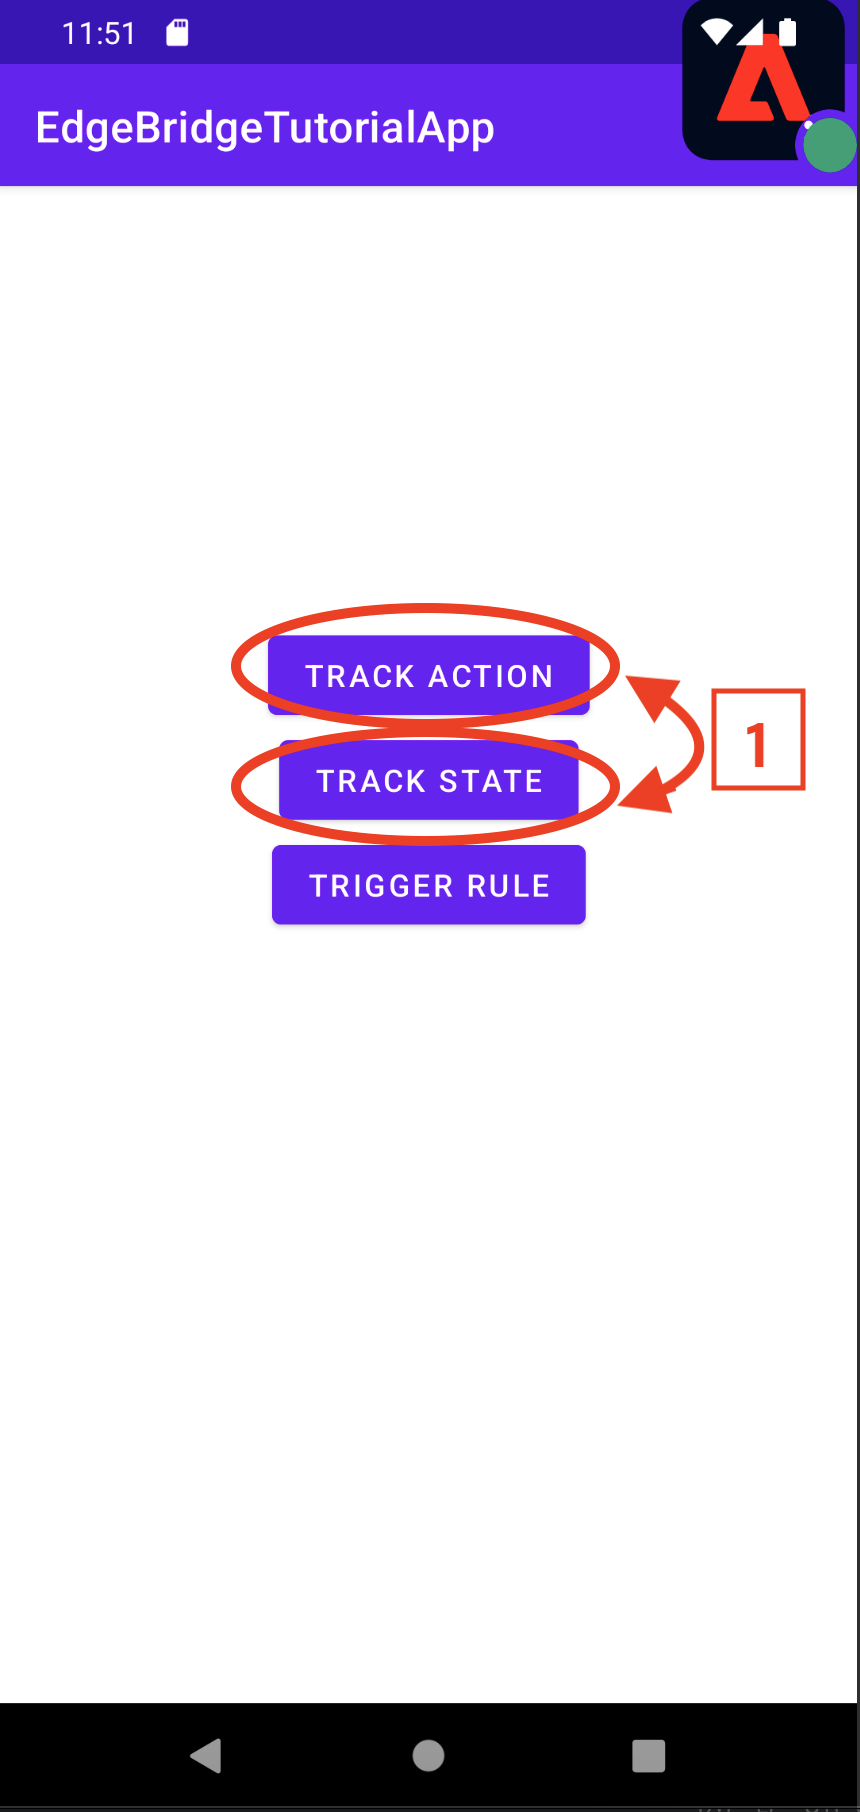
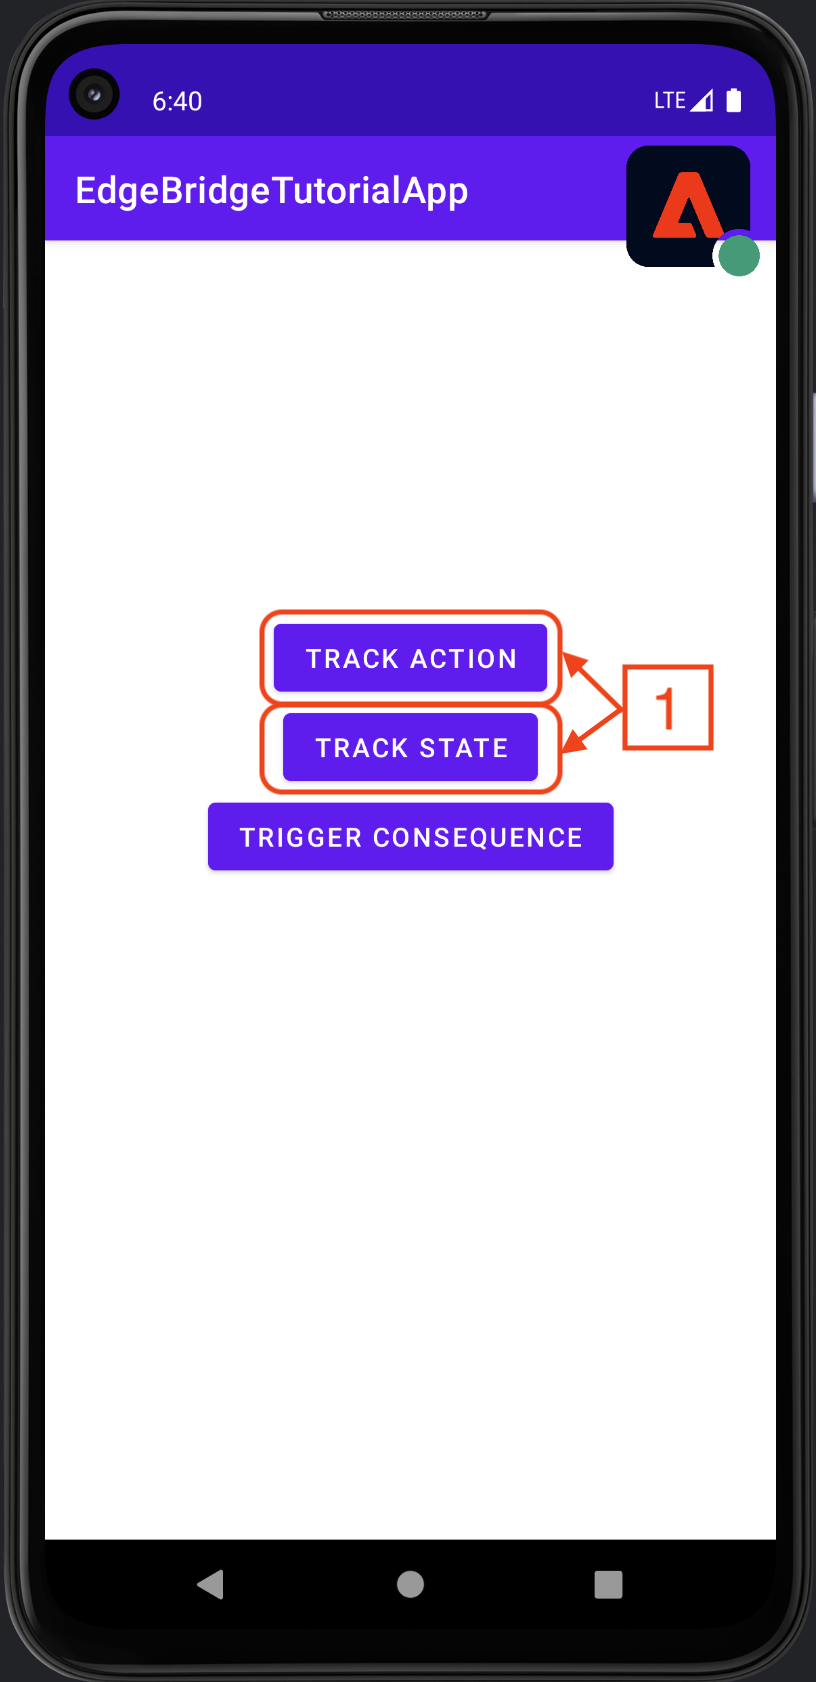
Update tutorial assets

Changed region(s): [[0.0, 0.0, 1.0, 1.0]]

diff --git a/Documentation/tutorials/edge-bridge-tutorial.md b/Documentation/tutorials/edge-bridge-tutorial.md
@@ -259,9 +259,9 @@ In order to see Edge Bridge events, in the connected app instance:
 <img src="../assets/edge-bridge-tutorial/assurance-validation/assurance-analytics-track-event.png" alt="Assurance Analytics track event" width="800"/>
 
 1. Now select the **Edge Bridge Request** event (**1**) in the events table.
-2. Select the **RAW EVENT** dropdown (**2**) in the event details window; observe the transformation of the payload structure with the help of the Edge Bridge extension. The **Edge Bridge Request** event conforms to the format of an Edge Network event.
+2. Select the **RAW EVENT** dropdown (**2**) in the event details window; observe the transformation of the payload structure (**3**) with the help of the Edge Bridge extension. The **Edge Bridge Request** event conforms to the format of an Edge Network event.
 
-<img src="../assets/edge-bridge-tutorial/assurance-validation/assurance-edge-bridge-track-event.jpg" alt="Assurance Edge Bridge track event" width="800"/>
+<img src="../assets/edge-bridge-tutorial/assurance-validation/assurance-edge-bridge-track-event.png" alt="Assurance Edge Bridge track event" width="800"/>
 
 The following table and diagram highlight the differences in event data structure and format between the two types of events: Analytics (left) vs Edge (right) when using the Edge Bridge extension:
 
@@ -272,7 +272,7 @@ The following table and diagram highlight the differences in event data structur
 | 3 | Keys with reserved prefix `&&` directly under `contextdata` | Keys with prefix `&&` transformed and moved under `data.__adobe.analytics` |
 | 4 | No Analytics metrics | Analytics metrics added under `data.__adobe.analytics` (varying locations) |
 
-<img src="../assets/edge-bridge-tutorial/assurance-validation/analytics-edge-bridge-conversion.jpg" alt="Comparison of event data between analytics and edge bridge events" width="1100"/>
+<img src="../assets/edge-bridge-tutorial/assurance-validation/analytics-edge-bridge-conversion.png" alt="Comparison of event data between analytics and edge bridge events" width="1100"/>
 
 > [!NOTE]
 > The two new top-level properties `xdm` and `data` are standard Edge Network event properties, integral to Experience Platform's [Experience Data Model (XDM)](https://experienceleague.adobe.com/en/docs/experience-platform/xdm/home) schema-based system for event data organization. This system allows for powerful, customizable data processing.
@@ -282,7 +282,7 @@ To learn more about the final data format created by Edge Bridge, please refer t
 #### Trigger rule-based `trackAction` events<!-- omit in toc -->
 Rule-based `trackAction`/`trackState` events are also converted to Edge events by the Edge Bridge extension. Select the **Trigger Consequence** button (**1**) to initiate a rule that generates a `trackAction` event.
 
-<img src="../assets/edge-bridge-tutorial/assurance-validation/android-app-trigger-rule-button.png" alt="Simulator trigger rule button" width="400"/>
+<img src="../assets/edge-bridge-tutorial/assurance-validation/android-app-trigger-consequence-button.png" alt="Simulator trigger rule button" width="400"/>
 
 > [!TIP]
 > If no `trackAction` event is dispatched upon selecting the **Trigger Consequence** button, verify that your mobile property is [set up with the correct rule](#2-configure-a-rule-to-forward-personally-identifiable-information-pii-events-to-edge-network).
